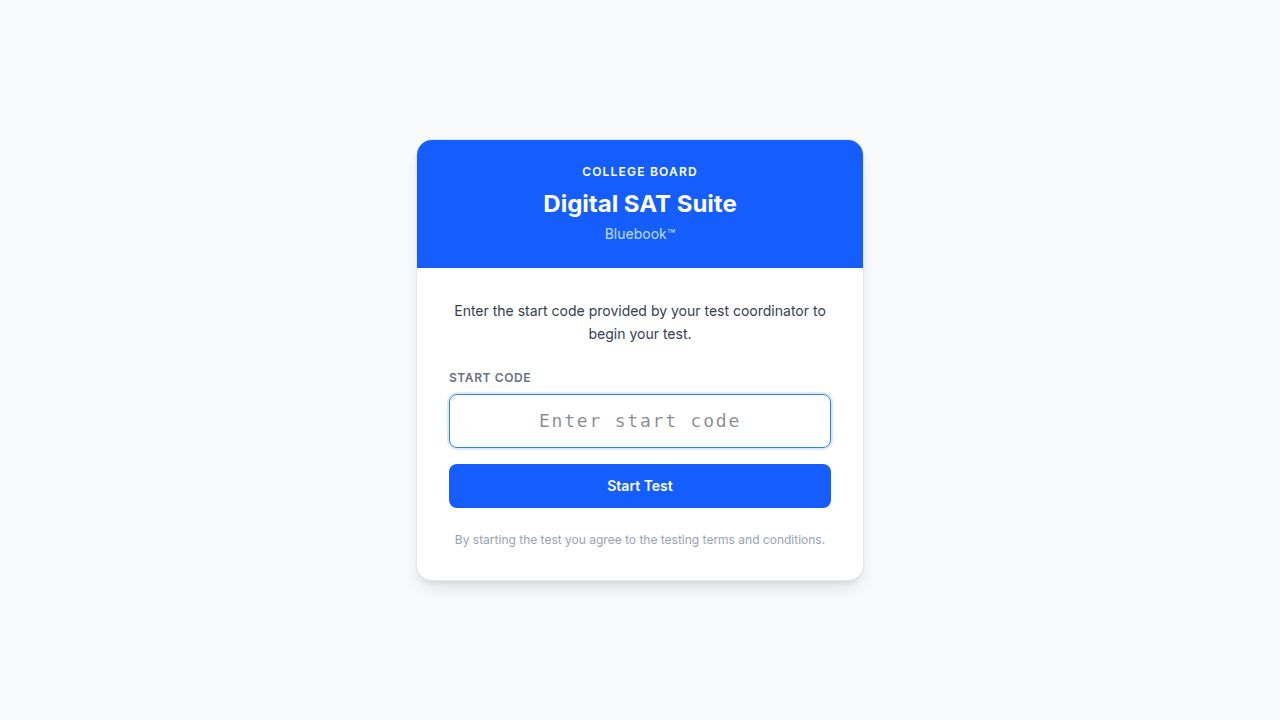
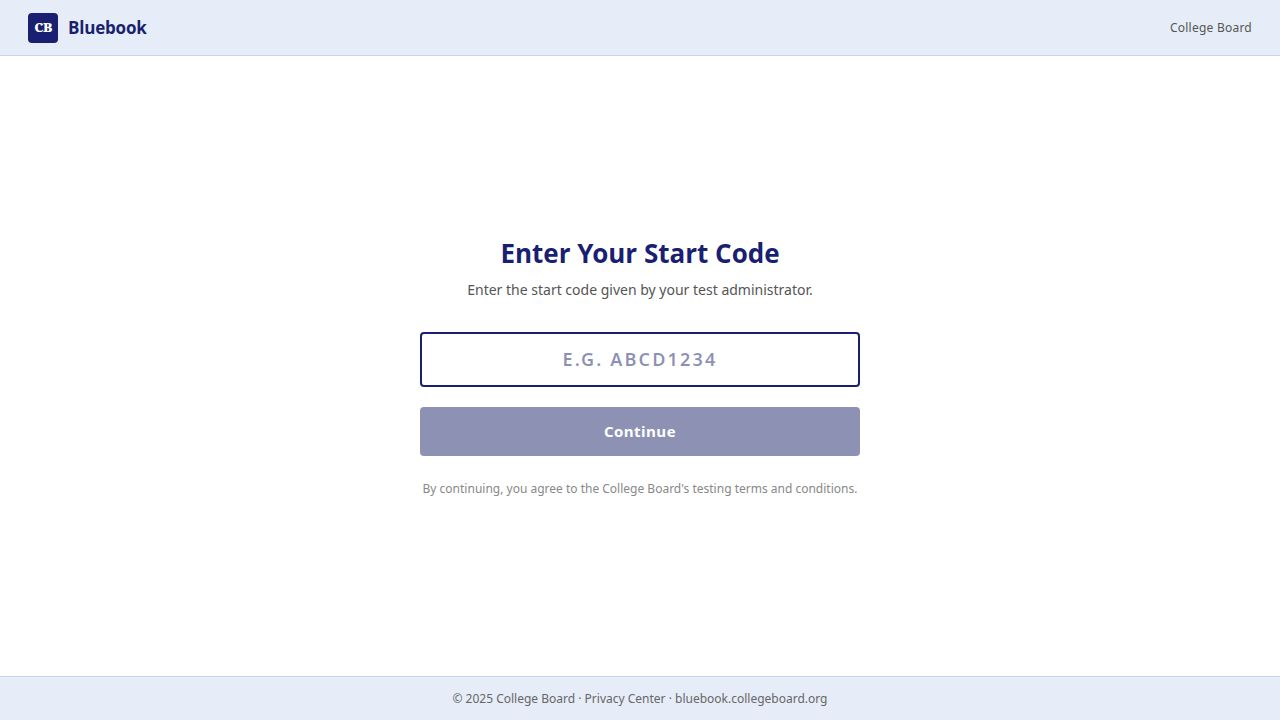
Redesign start screen to match the official Bluebook interface
Update StartScreen component with Bluebook branding, Segoe UI font, and correct color scheme, replacing Tailwind CSS with inline styles.

Replit-Commit-Author: Agent
Replit-Commit-Session-Id: 0994a0db-cae7-4b26-b5aa-b31e86088bf0
Replit-Commit-Checkpoint-Type: full_checkpoint
Replit-Commit-Event-Id: 3adf3ab5-d898-4c5a-b961-7f9221aa263c
Replit-Commit-Screenshot-Url: https://storage.googleapis.com/screenshot-production-us-central1/ff7e1f12-c605-448a-ab83-d95d2648b7cc/0994a0db-cae7-4b26-b5aa-b31e86088bf0/K5e3uCA
Replit-Helium-Checkpoint-Created: true

diff --git a/artifacts/sat-bluebook/src/screens/StartScreen.tsx b/artifacts/sat-bluebook/src/screens/StartScreen.tsx
@@ -18,49 +18,212 @@ export default function StartScreen({ onStart }: StartScreenProps) {
   }
 
   return (
-    <div className="fixed inset-0 bg-[#f5f5f0] flex items-center justify-center" style={{ fontFamily: "'Inter', system-ui, sans-serif" }}>
-      <div className="w-full max-w-sm bg-white rounded-xl shadow-lg border border-gray-200 overflow-hidden">
-        {/* Header */}
-        <div className="bg-[#1e3a5f] text-center px-8 py-7">
-          <p className="text-blue-300 text-xs font-semibold uppercase tracking-widest mb-2">College Board</p>
-          <h1 className="text-white text-2xl font-bold tracking-tight">Digital SAT Suite</h1>
-          <p className="text-blue-200 text-sm mt-1">Powered by Bluebook™</p>
+    <div
+      style={{
+        position: "fixed",
+        inset: 0,
+        display: "flex",
+        flexDirection: "column",
+        fontFamily: "'Segoe UI', Tahoma, Geneva, Verdana, sans-serif",
+        background: "#fff",
+      }}
+    >
+      {/* Header — matches TestScreen header style */}
+      <header
+        style={{
+          background: "#E6EDF8",
+          borderBottom: "1px solid #c8d5e8",
+          padding: "0 28px",
+          height: 56,
+          display: "flex",
+          alignItems: "center",
+          justifyContent: "space-between",
+          flexShrink: 0,
+        }}
+      >
+        {/* Left: CB logo + Bluebook wordmark */}
+        <div style={{ display: "flex", alignItems: "center", gap: 10 }}>
+          {/* College Board "CB" shield */}
+          <div
+            style={{
+              width: 30,
+              height: 30,
+              background: "#1a1f71",
+              borderRadius: 4,
+              display: "flex",
+              alignItems: "center",
+              justifyContent: "center",
+              flexShrink: 0,
+            }}
+          >
+            <span
+              style={{
+                color: "#fff",
+                fontSize: 13,
+                fontWeight: 900,
+                letterSpacing: "-0.5px",
+                fontFamily: "serif",
+              }}
+            >
+              CB
+            </span>
+          </div>
+          <span
+            style={{
+              fontSize: 17,
+              fontWeight: 700,
+              color: "#1a1f71",
+              letterSpacing: "-0.2px",
+            }}
+          >
+            Bluebook
+          </span>
         </div>
-        {/* Body */}
-        <div className="px-8 py-7">
-          <p className="text-gray-600 text-sm text-center mb-6 leading-relaxed">
-            Enter the start code provided by your test administrator to begin.
+
+        {/* Right: College Board label */}
+        <span style={{ fontSize: 12, color: "#555", letterSpacing: "0.02em" }}>
+          College Board
+        </span>
+      </header>
+
+      {/* Main content */}
+      <main
+        style={{
+          flex: 1,
+          display: "flex",
+          alignItems: "center",
+          justifyContent: "center",
+          padding: "40px 24px",
+          background: "#fff",
+        }}
+      >
+        <div style={{ width: "100%", maxWidth: 440 }}>
+          {/* Title */}
+          <h1
+            style={{
+              fontSize: 26,
+              fontWeight: 700,
+              color: "#1a1f71",
+              margin: "0 0 6px",
+              textAlign: "center",
+            }}
+          >
+            Enter Your Start Code
+          </h1>
+          <p
+            style={{
+              fontSize: 14,
+              color: "#555",
+              textAlign: "center",
+              margin: "0 0 32px",
+              lineHeight: 1.5,
+            }}
+          >
+            Enter the start code given by your test administrator.
           </p>
-          <form onSubmit={handleSubmit} className="space-y-4">
-            <div>
-              <label className="block text-xs font-semibold text-gray-500 uppercase tracking-wider mb-1.5">
-                Start Code
-              </label>
+
+          <form onSubmit={handleSubmit} noValidate>
+            {/* Input box — matches Bluebook input style */}
+            <div
+              style={{
+                border: error ? "2px solid #c0392b" : "2px solid #1a1f71",
+                borderRadius: 4,
+                padding: "12px 16px",
+                marginBottom: error ? 6 : 20,
+                background: "#fff",
+                display: "flex",
+                alignItems: "center",
+              }}
+            >
               <input
                 type="text"
                 value={code}
-                onChange={(e) => { setCode(e.target.value); setError(""); }}
+                onChange={(e) => { setCode(e.target.value.toUpperCase()); setError(""); }}
                 placeholder="e.g. ABCD1234"
-                className={`w-full px-4 py-3 rounded-lg border text-gray-900 text-center text-base font-mono tracking-widest outline-none transition ${
-                  error ? "border-red-400 ring-2 ring-red-100" : "border-gray-300 focus:border-[#1e3a5f] focus:ring-2 focus:ring-blue-100"
-                }`}
-                maxLength={20}
                 autoFocus
+                maxLength={20}
+                style={{
+                  width: "100%",
+                  border: "none",
+                  outline: "none",
+                  fontSize: 18,
+                  fontWeight: 600,
+                  fontFamily: "'Segoe UI', Tahoma, Geneva, Verdana, sans-serif",
+                  color: "#1a1f71",
+                  letterSpacing: "0.12em",
+                  textTransform: "uppercase",
+                  background: "transparent",
+                  textAlign: "center",
+                }}
               />
-              {error && <p className="mt-1.5 text-xs text-red-500">{error}</p>}
             </div>
+
+            {error && (
+              <p
+                style={{
+                  fontSize: 13,
+                  color: "#c0392b",
+                  margin: "0 0 16px",
+                  paddingLeft: 2,
+                }}
+              >
+                {error}
+              </p>
+            )}
+
+            {/* Submit button */}
             <button
               type="submit"
-              className="w-full py-3 bg-blue-600 hover:bg-blue-700 active:bg-blue-800 text-white font-semibold rounded-lg transition-colors text-sm tracking-wide"
+              style={{
+                width: "100%",
+                padding: "13px 0",
+                background: code.trim().length >= 4 ? "#1a1f71" : "#8d92b5",
+                color: "#fff",
+                border: "none",
+                borderRadius: 4,
+                fontSize: 15,
+                fontWeight: 700,
+                fontFamily: "'Segoe UI', Tahoma, Geneva, Verdana, sans-serif",
+                cursor: code.trim().length >= 4 ? "pointer" : "default",
+                letterSpacing: "0.03em",
+                transition: "background 0.15s",
+              }}
             >
-              Start Test
+              Continue
             </button>
           </form>
-          <p className="mt-5 text-center text-xs text-gray-400 leading-relaxed">
-            By starting you agree to the testing terms and conditions.
+
+          {/* Disclaimer */}
+          <p
+            style={{
+              fontSize: 12,
+              color: "#888",
+              textAlign: "center",
+              margin: "24px 0 0",
+              lineHeight: 1.5,
+            }}
+          >
+            By continuing, you agree to the College Board's testing terms and conditions.
           </p>
         </div>
-      </div>
+      </main>
+
+      {/* Footer */}
+      <footer
+        style={{
+          background: "#E6EDF8",
+          borderTop: "1px solid #c8d5e8",
+          height: 44,
+          display: "flex",
+          alignItems: "center",
+          justifyContent: "center",
+          flexShrink: 0,
+        }}
+      >
+        <span style={{ fontSize: 12, color: "#666" }}>
+          © 2025 College Board · Privacy Center · bluebook.collegeboard.org
+        </span>
+      </footer>
     </div>
   );
 }